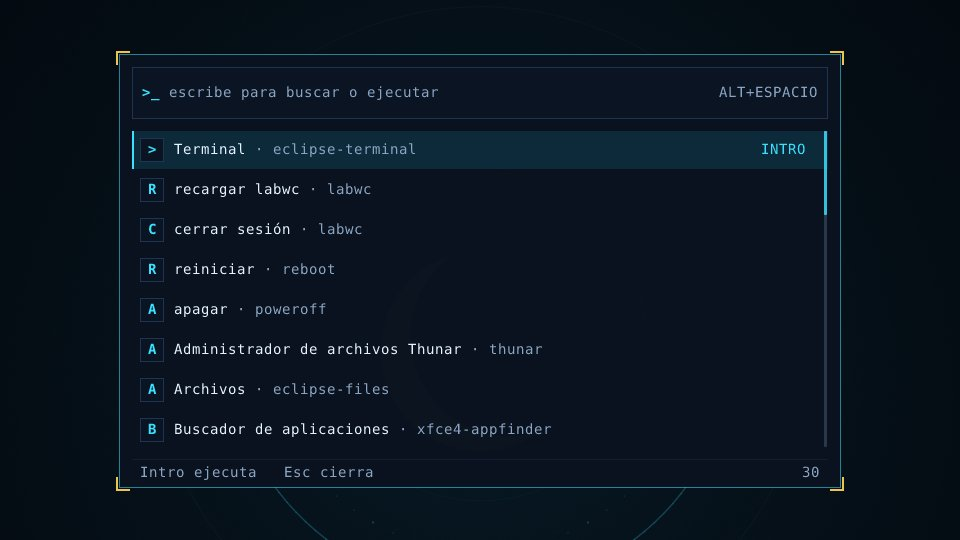
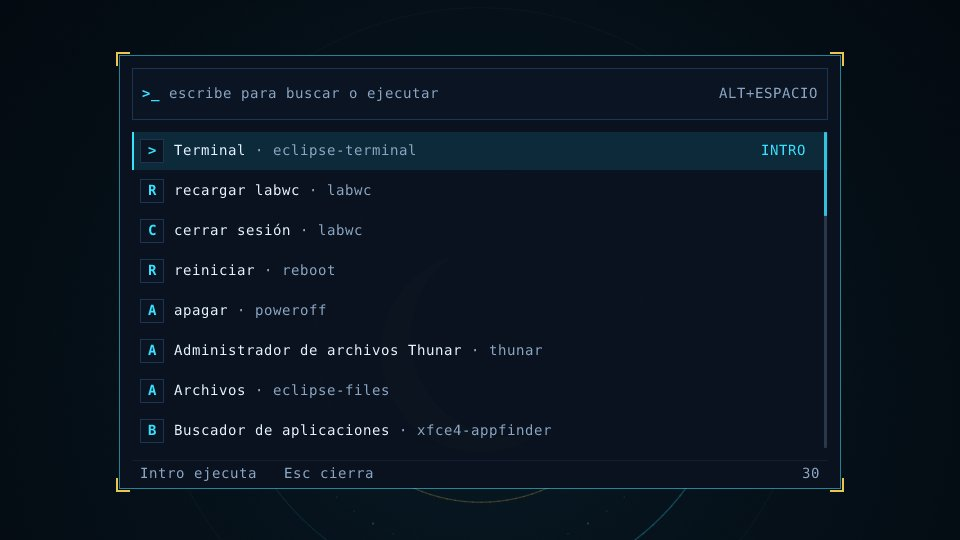
Capturas de Eclipse OS 0.7.2 y descargas de la v0.7.2
Las siete capturas de la galería se rehacen con la ISO de escritorio
x86_64 de la v0.7.2 arrancada en QEMU. La versión pasa a 0.7.2 en la
portada y en la página de descargas, que ahora enlaza las ISO de
eclipse-os.dev/releases/0.7.2/ (sin comprimir) y mueve la v0.6.1 a
versiones anteriores. Cambios en español y en /en/.

Claude-Session: https://claude.ai/code/session_01MWtQgBzSsksubjvh98GPXq

diff --git a/releases/index.html b/releases/index.html
@@ -36,7 +36,7 @@
     <header class="sec-head page-head reveal">
       <span class="kicker">Descargas</span>
       <h2>Consigue <span class="grad-text">Eclipse OS</span></h2>
-      <p>Imágenes ISO con arranque UEFI. Descomprímelas con <code>gunzip</code> antes de usarlas.</p>
+      <p>Imágenes ISO con arranque UEFI. Se graban o arrancan tal cual, sin descomprimir.</p>
     </header>
 
     <!-- Versión actual -->
@@ -44,41 +44,40 @@
       <div class="release-top">
         <div>
           <span class="tag-latest">Última versión</span>
-          <h3>Eclipse OS v0.6.1</h3>
-          <p class="muted">Publicada el 14 de octubre de 2026</p>
+          <h3>Eclipse OS v0.7.2</h3>
+          <p class="muted">Publicada el 16 de noviembre de 2026</p>
         </div>
-        <a class="btn btn-ghost btn-sm" href="https://github.com/Pryancito/eclipse/releases/tag/v0.6.1">Notas de la versión ↗</a>
+        <a class="btn btn-ghost btn-sm" href="https://github.com/Pryancito/eclipse/releases/tag/v0.7.2">Notas de la versión ↗</a>
       </div>
 
       <div class="dl-grid">
-        <a class="dl featured" href="https://github.com/Pryancito/eclipse/releases/download/v0.6.1/eclipse-desktop-x86_64.iso.gz">
+        <a class="dl featured" href="https://eclipse-os.dev/releases/0.7.2/eclipse-desktop-x86_64.iso">
           <span class="dl-arch">x86_64 · PC</span>
           <b>Escritorio</b>
           <span class="dl-desc">labwc, Mesa, Firefox y XFCE. La experiencia completa, con instalador.</span>
-          <span class="dl-meta">eclipse-desktop-x86_64.iso.gz · 2,0 GB</span>
+          <span class="dl-meta">eclipse-desktop-x86_64.iso · 5,2 GB</span>
         </a>
-        <a class="dl" href="https://github.com/Pryancito/eclipse/releases/download/v0.6.1/eclipse-minimal-x86_64.iso.gz">
+        <a class="dl" href="https://eclipse-os.dev/releases/0.7.2/eclipse-minimal-x86_64.iso">
           <span class="dl-arch">x86_64 · PC</span>
           <b>Mínima</b>
           <span class="dl-desc">Consola con BusyBox, red e instalador. Sin escritorio.</span>
-          <span class="dl-meta">eclipse-minimal-x86_64.iso.gz · 637 MB</span>
+          <span class="dl-meta">eclipse-minimal-x86_64.iso · 2,7 GB</span>
         </a>
-        <a class="dl" href="https://github.com/Pryancito/eclipse/releases/download/v0.6.1/eclipse-desktop-aarch64.iso.gz">
+        <a class="dl" href="https://eclipse-os.dev/releases/0.7.2/eclipse-desktop-aarch64.iso">
           <span class="dl-arch">arm64</span>
           <b>Escritorio</b>
           <span class="dl-desc">Para ARM de 64 bits. Arranca en vivo en una sesión de consola, sin instalador.</span>
-          <span class="dl-meta">eclipse-desktop-aarch64.iso.gz · 726 MB</span>
+          <span class="dl-meta">eclipse-desktop-aarch64.iso · 6,1 GB</span>
         </a>
-        <a class="dl" href="https://github.com/Pryancito/eclipse/releases/download/v0.6.1/eclipse-minimal-aarch64.iso.gz">
+        <a class="dl" href="https://eclipse-os.dev/releases/0.7.2/eclipse-minimal-aarch64.iso">
           <span class="dl-arch">arm64</span>
           <b>Mínima</b>
           <span class="dl-desc">Consola para ARM de 64 bits. Arráncala con 1 GB de memoria, no con 4.</span>
-          <span class="dl-meta">eclipse-minimal-aarch64.iso.gz · 63 MB</span>
+          <span class="dl-meta">eclipse-minimal-aarch64.iso · 1,2 GB</span>
         </a>
       </div>
 
-      <pre><span class="c"># x86_64: descomprimir y arrancar en QEMU (UEFI, 4 GB o más)</span>
-gunzip eclipse-desktop-x86_64.iso.gz
+      <pre><span class="c"># x86_64: arrancar en QEMU (UEFI, 4 GB o más)</span>
 qemu-system-x86_64 -machine q35 -m 8G -smp 4 -vga virtio \
   -drive if=pflash,format=raw,readonly=on,file=OVMF.fd \
   -cdrom eclipse-desktop-x86_64.iso</pre>
@@ -88,6 +87,15 @@ qemu-system-x86_64 -machine q35 -m 8G -smp 4 -vga virtio \
     <section class="older reveal">
       <h3>Versiones anteriores</h3>
       <div class="table">
+        <div class="row">
+          <div><b>v0.6.1</b><span class="muted">14 oct 2026</span></div>
+          <div class="links">
+            <a href="https://github.com/Pryancito/eclipse/releases/download/v0.6.1/eclipse-desktop-x86_64.iso.gz">Escritorio x86_64</a>
+            <a href="https://github.com/Pryancito/eclipse/releases/download/v0.6.1/eclipse-minimal-x86_64.iso.gz">Mínima x86_64</a>
+            <a href="https://github.com/Pryancito/eclipse/releases/download/v0.6.1/eclipse-desktop-aarch64.iso.gz">Escritorio arm64</a>
+            <a href="https://github.com/Pryancito/eclipse/releases/download/v0.6.1/eclipse-minimal-aarch64.iso.gz">Mínima arm64</a>
+          </div>
+        </div>
         <div class="row">
           <div><b>v0.6.0</b><span class="muted">14 oct 2026</span></div>
           <div class="links">

diff --git a/en/releases/index.html b/en/releases/index.html
@@ -36,7 +36,7 @@
     <header class="sec-head page-head reveal">
       <span class="kicker">Downloads</span>
       <h2>Get <span class="grad-text">Eclipse OS</span></h2>
-      <p>UEFI-bootable ISO images. Unpack them with <code>gunzip</code> before use.</p>
+      <p>UEFI-bootable ISO images. Write or boot them as they are, no unpacking needed.</p>
     </header>
 
     <!-- Current release -->
@@ -44,41 +44,40 @@
       <div class="release-top">
         <div>
           <span class="tag-latest">Latest release</span>
-          <h3>Eclipse OS v0.6.1</h3>
-          <p class="muted">Released on October 14, 2026</p>
+          <h3>Eclipse OS v0.7.2</h3>
+          <p class="muted">Released on November 16, 2026</p>
         </div>
-        <a class="btn btn-ghost btn-sm" href="https://github.com/Pryancito/eclipse/releases/tag/v0.6.1">Release notes ↗</a>
+        <a class="btn btn-ghost btn-sm" href="https://github.com/Pryancito/eclipse/releases/tag/v0.7.2">Release notes ↗</a>
       </div>
 
       <div class="dl-grid">
-        <a class="dl featured" href="https://github.com/Pryancito/eclipse/releases/download/v0.6.1/eclipse-desktop-x86_64.iso.gz">
+        <a class="dl featured" href="https://eclipse-os.dev/releases/0.7.2/eclipse-desktop-x86_64.iso">
           <span class="dl-arch">x86_64 · PC</span>
           <b>Desktop</b>
           <span class="dl-desc">labwc, Mesa, Firefox and XFCE. The full experience, with the installer.</span>
-          <span class="dl-meta">eclipse-desktop-x86_64.iso.gz · 2.0 GB</span>
+          <span class="dl-meta">eclipse-desktop-x86_64.iso · 5.2 GB</span>
         </a>
-        <a class="dl" href="https://github.com/Pryancito/eclipse/releases/download/v0.6.1/eclipse-minimal-x86_64.iso.gz">
+        <a class="dl" href="https://eclipse-os.dev/releases/0.7.2/eclipse-minimal-x86_64.iso">
           <span class="dl-arch">x86_64 · PC</span>
           <b>Minimal</b>
           <span class="dl-desc">Console with BusyBox, networking and the installer. No desktop.</span>
-          <span class="dl-meta">eclipse-minimal-x86_64.iso.gz · 637 MB</span>
+          <span class="dl-meta">eclipse-minimal-x86_64.iso · 2.7 GB</span>
         </a>
-        <a class="dl" href="https://github.com/Pryancito/eclipse/releases/download/v0.6.1/eclipse-desktop-aarch64.iso.gz">
+        <a class="dl" href="https://eclipse-os.dev/releases/0.7.2/eclipse-desktop-aarch64.iso">
           <span class="dl-arch">arm64</span>
           <b>Desktop</b>
           <span class="dl-desc">For 64-bit ARM. Boots live into a console session, no installer.</span>
-          <span class="dl-meta">eclipse-desktop-aarch64.iso.gz · 726 MB</span>
+          <span class="dl-meta">eclipse-desktop-aarch64.iso · 6.1 GB</span>
         </a>
-        <a class="dl" href="https://github.com/Pryancito/eclipse/releases/download/v0.6.1/eclipse-minimal-aarch64.iso.gz">
+        <a class="dl" href="https://eclipse-os.dev/releases/0.7.2/eclipse-minimal-aarch64.iso">
           <span class="dl-arch">arm64</span>
           <b>Minimal</b>
           <span class="dl-desc">Console for 64-bit ARM. Boot it with 1 GB of memory, not 4.</span>
-          <span class="dl-meta">eclipse-minimal-aarch64.iso.gz · 63 MB</span>
+          <span class="dl-meta">eclipse-minimal-aarch64.iso · 1.2 GB</span>
         </a>
       </div>
 
-      <pre><span class="c"># x86_64: unpack and boot in QEMU (UEFI, 4 GB or more)</span>
-gunzip eclipse-desktop-x86_64.iso.gz
+      <pre><span class="c"># x86_64: boot in QEMU (UEFI, 4 GB or more)</span>
 qemu-system-x86_64 -machine q35 -m 8G -smp 4 -vga virtio \
   -drive if=pflash,format=raw,readonly=on,file=OVMF.fd \
   -cdrom eclipse-desktop-x86_64.iso</pre>
@@ -88,6 +87,15 @@ qemu-system-x86_64 -machine q35 -m 8G -smp 4 -vga virtio \
     <section class="older reveal">
       <h3>Older releases</h3>
       <div class="table">
+        <div class="row">
+          <div><b>v0.6.1</b><span class="muted">Oct 14, 2026</span></div>
+          <div class="links">
+            <a href="https://github.com/Pryancito/eclipse/releases/download/v0.6.1/eclipse-desktop-x86_64.iso.gz">Desktop x86_64</a>
+            <a href="https://github.com/Pryancito/eclipse/releases/download/v0.6.1/eclipse-minimal-x86_64.iso.gz">Minimal x86_64</a>
+            <a href="https://github.com/Pryancito/eclipse/releases/download/v0.6.1/eclipse-desktop-aarch64.iso.gz">Desktop arm64</a>
+            <a href="https://github.com/Pryancito/eclipse/releases/download/v0.6.1/eclipse-minimal-aarch64.iso.gz">Minimal arm64</a>
+          </div>
+        </div>
         <div class="row">
           <div><b>v0.6.0</b><span class="muted">Oct 14, 2026</span></div>
           <div class="links">

diff --git a/index.html b/index.html
@@ -48,7 +48,7 @@
     </div>
 
     <div class="wrap hero-text">
-      <span class="badge"><i></i> Versión 0.7 disponible · x86_64 y arm64</span>
+      <span class="badge"><i></i> Versión 0.7.2 disponible · x86_64 y arm64</span>
       <h1>El sistema operativo<br><span class="grad-text">que nace de un eclipse</span></h1>
       <p class="lead">
         Un núcleo propio escrito en Rust seguro que habla el idioma de Linux.
@@ -63,7 +63,7 @@
 
     <div class="wrap">
       <figure class="screen reveal">
-        <div class="screen-bar"><i></i><i></i><i></i><span>Eclipse OS 0.7.1 · escritorio labwc</span></div>
+        <div class="screen-bar"><i></i><i></i><i></i><span>Eclipse OS 0.7.2 · escritorio labwc</span></div>
         <img src="assets/shots/escritorio.jpg" alt="Escritorio de Eclipse OS con el eclipse dorado del fondo animado y los paneles superior e inferior" width="1920" height="1080">
       </figure>
       <p class="caption">Captura real de Eclipse OS funcionando en QEMU.</p>
@@ -127,7 +127,7 @@
       <div class="sec-head reveal">
         <span class="kicker">Así se ve</span>
         <h2>Eclipse OS, <span class="grad-text">en marcha</span></h2>
-        <p>Capturas reales de Eclipse OS 0.7.1, compilado desde el código actual y arrancado en QEMU. Elige una pestaña.</p>
+        <p>Capturas reales de Eclipse OS 0.7.2, compilado desde el código actual y arrancado en QEMU. Elige una pestaña.</p>
       </div>
 
       <div class="showcase reveal">
@@ -146,7 +146,7 @@
             <div class="shots">
               <img class="shot active" src="assets/shots/escritorio.jpg" alt="Escritorio de Eclipse OS" width="1920" height="1080">
               <img class="shot" src="assets/shots/lanzador.jpg" alt="Lanzador de aplicaciones de Eclipse OS" loading="lazy" width="960" height="540">
-              <img class="shot" src="assets/shots/terminal.jpg" alt="Terminal foot con uname, memoria, disco y el estado de hunter" loading="lazy" width="1040" height="585">
+              <img class="shot" src="assets/shots/terminal.jpg" alt="Terminal foot con uname, versión, memoria, disco y el estado de hunter" loading="lazy" width="1040" height="585">
               <img class="shot" src="assets/shots/monitor.jpg" alt="Monitor del sistema lunarmon con CPU por núcleo, memoria, red, disco y la lista de procesos" loading="lazy" width="1440" height="810">
               <img class="shot" src="assets/shots/estilo-kde.jpg" alt="Eclipse OS con el estilo KDE" loading="lazy" width="1920" height="1080">
               <img class="shot" src="assets/shots/estilo-win11.jpg" alt="Eclipse OS con el estilo Windows 11" loading="lazy" width="1920" height="1080">
@@ -214,13 +214,12 @@
         <div class="step reveal">
           <h3>Descarga la ISO</h3>
           <p>Elige escritorio o mínima, para x86_64 o arm64, en <a class="link" href="releases/">Descargas</a>.</p>
-          <pre>eclipse-desktop-x86_64.iso.gz</pre>
+          <pre>eclipse-desktop-x86_64.iso</pre>
         </div>
         <div class="step reveal">
           <h3>Arranca en QEMU</h3>
           <p>Necesita firmware UEFI (OVMF) y al menos 4&nbsp;GB de memoria.</p>
-          <pre>gunzip eclipse-desktop-x86_64.iso.gz
-qemu-system-x86_64 -machine q35 \
+          <pre>qemu-system-x86_64 -machine q35 \
   -m 8G -smp 4 -vga virtio \
   -drive if=pflash,format=raw,readonly=on,file=OVMF.fd \
   -cdrom eclipse-desktop-x86_64.iso</pre>

diff --git a/en/index.html b/en/index.html
@@ -49,7 +49,7 @@
     </div>
 
     <div class="wrap hero-text">
-      <span class="badge"><i></i> Version 0.7 available · x86_64 and arm64</span>
+      <span class="badge"><i></i> Version 0.7.2 available · x86_64 and arm64</span>
       <h1>The operating system<br><span class="grad-text">born from an eclipse</span></h1>
       <p class="lead">
         A kernel of its own, written in safe Rust, that speaks Linux.
@@ -64,7 +64,7 @@
 
     <div class="wrap">
       <figure class="screen reveal">
-        <div class="screen-bar"><i></i><i></i><i></i><span>Eclipse OS 0.7.1 · labwc desktop</span></div>
+        <div class="screen-bar"><i></i><i></i><i></i><span>Eclipse OS 0.7.2 · labwc desktop</span></div>
         <img src="../assets/shots/escritorio.jpg" alt="Eclipse OS desktop with the golden eclipse of the animated wallpaper and the top and bottom panels" width="1920" height="1080">
       </figure>
       <p class="caption">A real screenshot of Eclipse OS running in QEMU.</p>
@@ -128,7 +128,7 @@
       <div class="sec-head reveal">
         <span class="kicker">How it looks</span>
         <h2>Eclipse OS, <span class="grad-text">up and running</span></h2>
-        <p>Real screenshots of Eclipse OS 0.7.1, built from the current code and booted in QEMU. Pick a tab.</p>
+        <p>Real screenshots of Eclipse OS 0.7.2, built from the current code and booted in QEMU. Pick a tab.</p>
       </div>
 
       <div class="showcase reveal">
@@ -147,7 +147,7 @@
             <div class="shots">
               <img class="shot active" src="../assets/shots/escritorio.jpg" alt="Eclipse OS desktop" width="1920" height="1080">
               <img class="shot" src="../assets/shots/lanzador.jpg" alt="Eclipse OS application launcher" loading="lazy" width="960" height="540">
-              <img class="shot" src="../assets/shots/terminal.jpg" alt="foot terminal showing uname, memory, disk and hunter status" loading="lazy" width="1040" height="585">
+              <img class="shot" src="../assets/shots/terminal.jpg" alt="foot terminal showing uname, version, memory, disk and hunter status" loading="lazy" width="1040" height="585">
               <img class="shot" src="../assets/shots/monitor.jpg" alt="lunarmon system monitor with per-core CPU, memory, network, disk and the process list" loading="lazy" width="1440" height="810">
               <img class="shot" src="../assets/shots/estilo-kde.jpg" alt="Eclipse OS with the KDE style" loading="lazy" width="1920" height="1080">
               <img class="shot" src="../assets/shots/estilo-win11.jpg" alt="Eclipse OS with the Windows 11 style" loading="lazy" width="1920" height="1080">
@@ -215,13 +215,12 @@
         <div class="step reveal">
           <h3>Download the ISO</h3>
           <p>Pick desktop or minimal, for x86_64 or arm64, in <a class="link" href="releases/">Downloads</a>.</p>
-          <pre>eclipse-desktop-x86_64.iso.gz</pre>
+          <pre>eclipse-desktop-x86_64.iso</pre>
         </div>
         <div class="step reveal">
           <h3>Boot it in QEMU</h3>
           <p>It needs UEFI firmware (OVMF) and at least 4&nbsp;GB of memory.</p>
-          <pre>gunzip eclipse-desktop-x86_64.iso.gz
-qemu-system-x86_64 -machine q35 \
+          <pre>qemu-system-x86_64 -machine q35 \
   -m 8G -smp 4 -vga virtio \
   -drive if=pflash,format=raw,readonly=on,file=OVMF.fd \
   -cdrom eclipse-desktop-x86_64.iso</pre>
